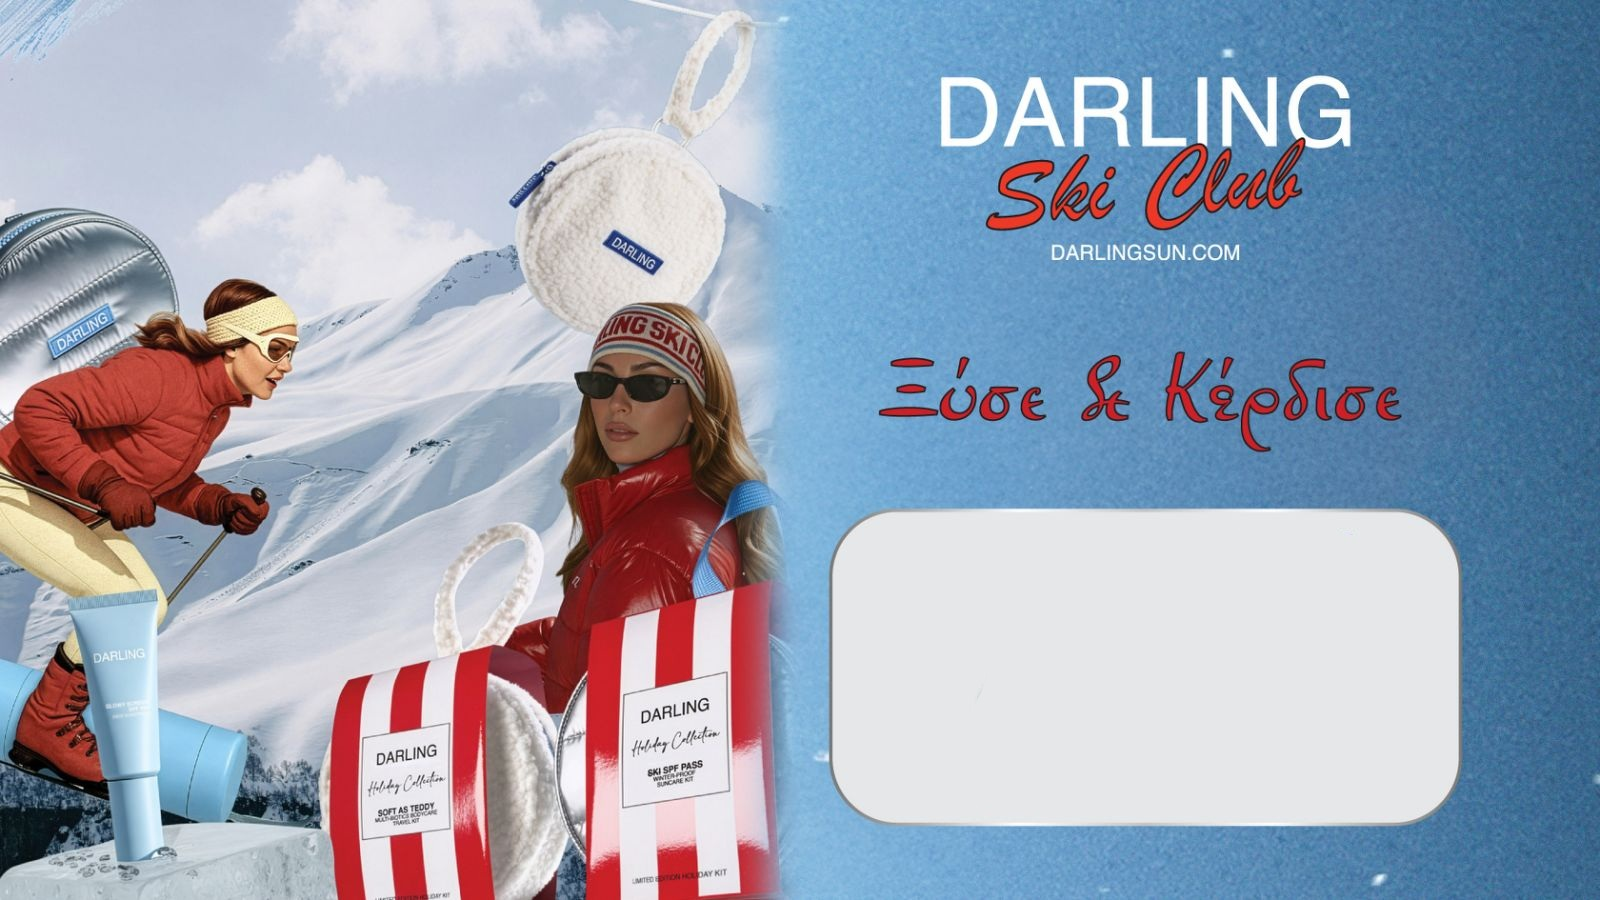
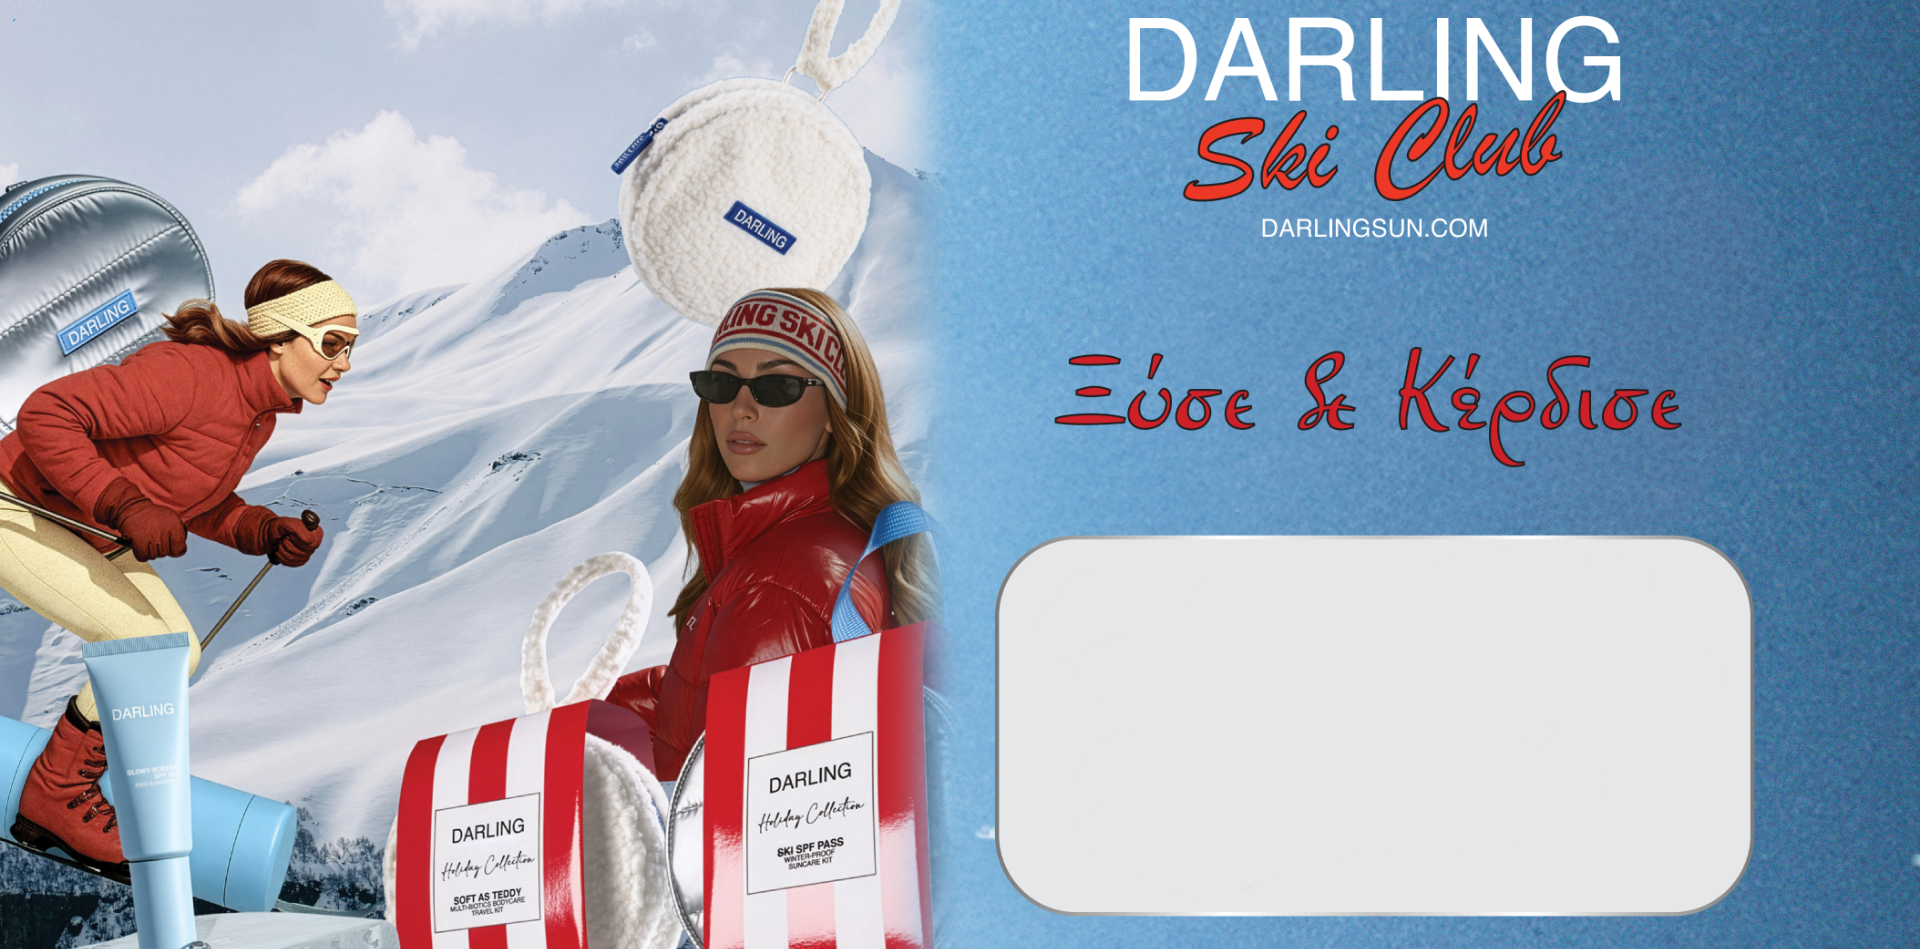
Add files via upload

diff --git a/script.js b/script.js
@@ -1,27 +1,28 @@
 document.addEventListener('DOMContentLoaded', () => {
 
     const prizeImage = document.getElementById('prize-image');
-
-    const totalWinnerImages = 1;
-    const winChance = 0.3;
-
-    const isWinner = Math.random() < winChance;
-
-    if (isWinner) {
-        const randomNum = Math.floor(Math.random() * totalWinnerImages) + 1;
-        prizeImage.src = `winner${randomNum}.jpg`;
-        console.log(`Game Loaded: Winner #${randomNum}`);
-    } else {
-        prizeImage.src = 'loss.jpg';
-        console.log("Game Loaded: Loss");
-    }
-
     const canvas = document.getElementById('scratch-canvas');
     const ctx = canvas.getContext('2d', { willReadFrequently: true });
+
+    const resultCode = 1; 
+
+    // Logic to set the image based on the variable
+    if (resultCode === 1) {
+        // Winning scenario
+        prizeImage.src = 'winner.jpg';
+    } else if (resultCode === 2) {
+        // Try again scenario
+        prizeImage.src = 'onemorechance.jpg';
+    } else {
+        // Loss scenario (Default for 3 or any other number)
+        prizeImage.src = 'loss.jpg'; 
+    }
 
     let isDrawing = false;
     let lastX = 0;
     let lastY = 0;
+    let isFinished = false;
+    let actionTriggered = false;
 
     function initCanvas() {
         canvas.width = canvas.offsetWidth;
@@ -38,29 +39,54 @@ document.addEventListener('DOMContentLoaded', () => {
         ctx.fillStyle = gradient;
         ctx.fillRect(0, 0, canvas.width, canvas.height);
 
-        ctx.font = "bold 30px Arial";
-        ctx.fillStyle = "#555";
-        ctx.textAlign = "center";
-        ctx.textBaseline = "middle";
-        ctx.fillText("", canvas.width / 2, canvas.height / 2);
-
         ctx.globalCompositeOperation = 'destination-out';
-        ctx.lineWidth = 40;
+        ctx.lineWidth = 75;
         ctx.lineCap = 'round';
         ctx.lineJoin = 'round';
     }
 
+    /* C# Backend function */
+    function functionAfterScratch() {
+        if (actionTriggered) return;
+        actionTriggered = true;
+
+        // Log the result code instead of the attempt number
+        console.log("3 seconds passed. Result processed for code: " + resultCode);
+    }
+
+    function finishGame() {
+        isFinished = true;
+        canvas.style.transition = "opacity 0.8s ease-out";
+        canvas.style.opacity = "0";
+        canvas.style.pointerEvents = "none";
+
+        setTimeout(() => {
+            functionAfterScratch();
+        }, 3000);
+    }
+
+    function checkScratchPercentage() {
+        if (isFinished) return;
+
+        const imageData = ctx.getImageData(0, 0, canvas.width, canvas.height);
+        const pixels = imageData.data;
+        let clearPixels = 0;
+
+        for (let i = 3; i < pixels.length; i += 4) {
+            if (pixels[i] === 0) clearPixels++;
+        }
+
+        const percentage = (clearPixels / (pixels.length / 4)) * 100;
+
+        if (percentage > 45) {
+            finishGame();
+        }
+    }
+
     function getPosition(e) {
         const rect = canvas.getBoundingClientRect();
-        let clientX, clientY;
-
-        if (e.type.includes('touch')) {
-            clientX = e.touches[0].clientX;
-            clientY = e.touches[0].clientY;
-        } else {
-            clientX = e.clientX;
-            clientY = e.clientY;
-        }
+        let clientX = e.touches ? e.touches[0].clientX : e.clientX;
+        let clientY = e.touches ? e.touches[0].clientY : e.clientY;
 
         return {
             x: clientX - rect.left,
@@ -69,7 +95,7 @@ document.addEventListener('DOMContentLoaded', () => {
     }
 
     function draw(e) {
-        if (!isDrawing) return;
+        if (!isDrawing || isFinished) return;
         if (e.cancelable) e.preventDefault();
 
         const { x, y } = getPosition(e);
@@ -90,23 +116,33 @@ document.addEventListener('DOMContentLoaded', () => {
     canvas.addEventListener('mousedown', e => {
         isDrawing = true;
         const pos = getPosition(e);
-        lastX = pos.x;
-        lastY = pos.y;
+        lastX = pos.x; lastY = pos.y;
         draw(e);
     });
 
-    window.addEventListener('mouseup', () => isDrawing = false);
+    window.addEventListener('mouseup', () => {
+        if (isDrawing) {
+            isDrawing = false;
+            checkScratchPercentage();
+        }
+    });
+
     canvas.addEventListener('mousemove', draw);
 
     canvas.addEventListener('touchstart', e => {
         isDrawing = true;
         const pos = getPosition(e);
-        lastX = pos.x;
-        lastY = pos.y;
+        lastX = pos.x; lastY = pos.y;
         draw(e);
     }, { passive: false });
 
-    window.addEventListener('touchend', () => isDrawing = false);
+    window.addEventListener('touchend', () => {
+        if (isDrawing) {
+            isDrawing = false;
+            checkScratchPercentage();
+        }
+    });
+
     canvas.addEventListener('touchmove', draw, { passive: false });
 
     let resizeTimer;

diff --git a/style.css b/style.css
@@ -39,15 +39,15 @@ body, html {
 .scratch-zone {
     position: absolute;
     /* Decrease to move up, Increase to move down */
-    top: 55.2%;  
+    top: 56.5%;  
     
     /* Decrease to move left, Increase to move right */
-    left: 51.0%; 
+    left: 52.0%; 
     
-    width: 41.0%; 
+    width: 45.0%; 
     
-    height: 37%;
-    border-radius: 60px; /* Matches the rounded corners */
+    height: 40.0%;
+    border-radius: 70px; /* Matches the rounded corners */
 }
 
 
